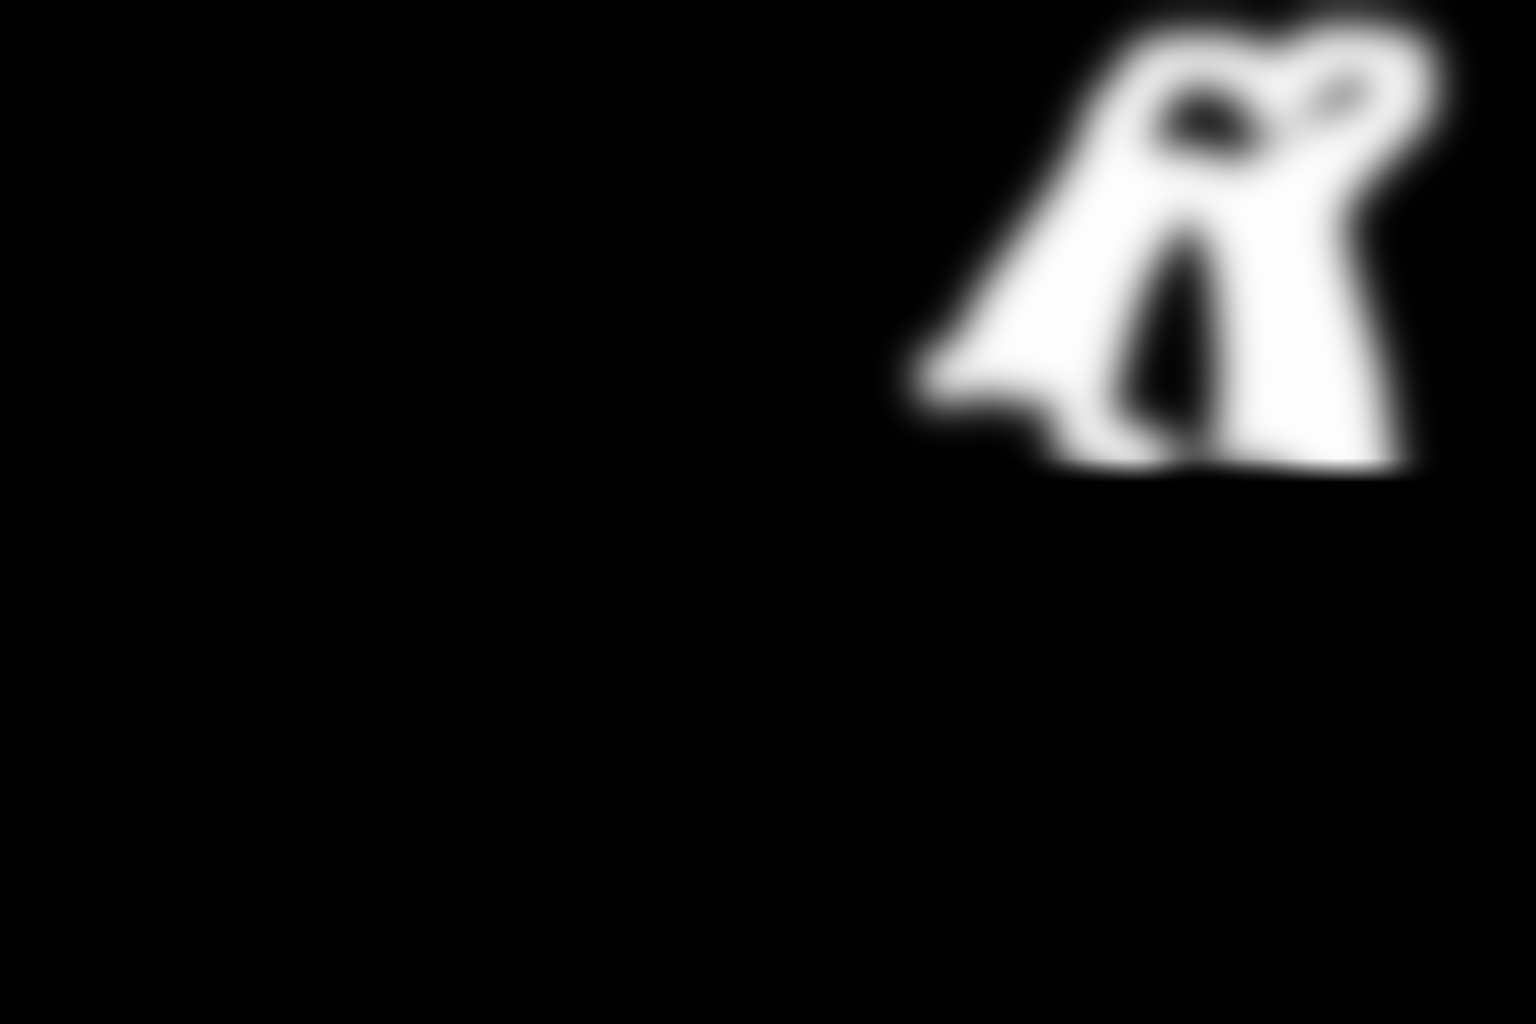
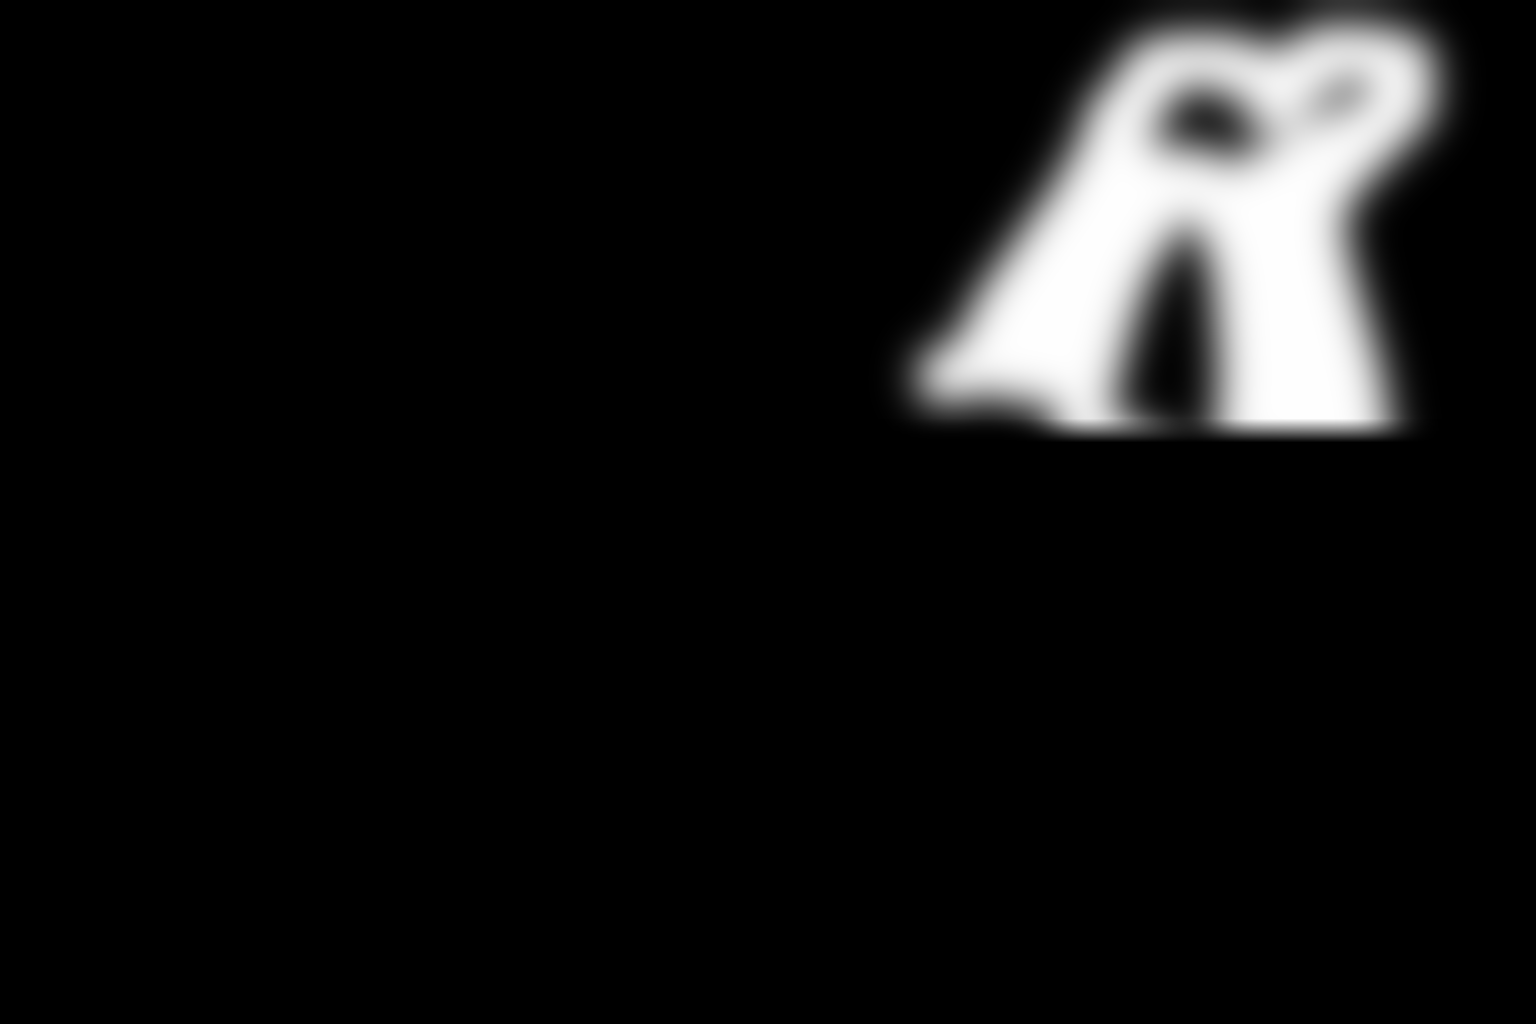
Give the rear its own region: the dress covers it, not a black band
A black band was drawn between the hem and the tights, reading as a camisole
under the one-piece. Nothing asked for it. The two regions owned the thigh and
the legs, the rear belonged to the base prompt, and the base prompt has a black
coat in it -- an unassigned region gets drawn from whatever is nearest.

So the rear becomes a third region asking for the dress. The hem has never
answered to length tags; it answers to being given a region.

Two lines now define the lower half: y=430 the sock top, y=620 the hem. Both are
mask edits, not prompt edits.

And a thin region needs more strength than a fat one: the tights band sits
between two larger pale neighbours and came back at 213,206,215 at parity,
against 134,131,134 when it owns more of the leg. WEIGHT gives it 1.8x.

Changed region(s): [[0.6562, 0.4062, 0.9375, 0.4688]]

diff --git a/scripts/yk_prone_legwear.py b/scripts/yk_prone_legwear.py
@@ -22,8 +22,9 @@ They do not have to share a *prompt*, though. They occupy different parts of the
 picture, and ComfyUI conditions parts of the picture separately:
 
     base    the whole prompt with the legwear block removed,
-            masked to everything OUTSIDE the two regions
-    tights  the same prompt plus grey pantyhose, masked over hip and thigh
+            masked to everything OUTSIDE the three regions
+    dress   the same prompt plus the purple dress, masked over the rear
+    tights  the same prompt plus grey pantyhose, a band on the upper thigh
     sock    the same prompt plus white thighhighs, masked from mid-thigh
             down the raised legs to the toes
 
@@ -47,10 +48,11 @@ any other seed:
 1. render the first pass and cut two regions from it by colour -- bare skin for
    the legwear, near-white for the raised legs;
 2. open, dilate by 41px and blur by 20 so they survive the picture moving;
-3. **split them across the thigh at y=470, with a 12px transition.** Everything
-   below that line is tights, everything above it is sock. That line is the sock
-   top, and it is the only thing in this file that decides ニーハイ from
-   ハイソックス -- the tags describe the garment, the mask places it.
+3. **cut them with two lines across the body, 12px of transition each.** At
+   y=430 the sock top: above it sock, below it legwear. At y=620 the hem:
+   below it dress, between the two lines tights. The tags describe the
+   garments, the lines place them, and the lines are what decide ニーハイ from
+   ハイソックス and how much rear the dress covers.
 
 They are specific to seed 1886970040. On any other seed they are wrong, and the
 honest way to get another one is to render it first and cut new masks from it.
@@ -68,13 +70,21 @@ from comfy_host import DEFAULT_HOST, DEFAULT_PORT, stage_input
 
 REPO = Path(__file__).resolve().parent.parent
 INPUT_DIR = REPO / ".local/ComfyUI/input"
-MASKS = {"tights": REPO / "assets/prone-tights-mask.png",
+MASKS = {"dress": REPO / "assets/prone-dress-mask.png",
+         "tights": REPO / "assets/prone-tights-mask.png",
          "sock": REPO / "assets/prone-sock-mask.png"}
 
 # The garment each region adds to the shared prompt. Weighted well above the
 # recipe's usual 1.45 because a region is arguing with nothing -- the base is
 # masked out of it -- and because the pale side of the palette wins ties here.
 REGION = {
+    # The rear is the DRESS's job. Left to the base prompt it came out as a
+    # black band between the hem and the tights, reading as a camisole or a
+    # pair of shorts worn under the one-piece -- 「お尻を隠すのはワンピースです」.
+    # The hem has never answered to length tags (see the module docstring in
+    # yukari_recipe.py); it answers to being given a region.
+    "dress": ("(purple dress:1.9), (dress:1.7), (dress hem:1.5), (frills:1.3), "
+              "(long dress:1.4)"),
     "tights": ("(grey pantyhose:1.9), (dark grey legwear:1.7), "
                "(charcoal pantyhose:1.5), (opaque pantyhose:1.5)"),
     # ニーハイ is `thighhighs`, over the knee. `kneehighs` is ハイソックス and
@@ -83,6 +93,13 @@ REGION = {
     "sock": ("(white thighhighs:1.8), (white over-kneehighs:1.6), "
              "(thighhighs:1.5)"),
 }
+
+# Per-region conditioning strength, multiplied by --strength. The tights band is
+# the thinnest region and sits between two much larger pale ones, so at parity
+# it comes back washed out -- 213,206,215 against the 134,131,134 the same
+# prompt lands when it owns more of the leg. The extra weight is buying back
+# what the neighbours take, not asking for a different colour.
+WEIGHT = {"dress": 1.0, "tights": 1.8, "sock": 1.0}
 
 
 def legwear_block() -> str:
@@ -120,7 +137,8 @@ def build(seed: int, prefix: str, hires: int, strength: float,
                                     "text": f"{base}, {REGION[name]}"}}
         graph[setmask] = {"class_type": "ConditioningSetMask",
                           "inputs": {"conditioning": [encode, 0],
-                                     "mask": [tomask, 0], "strength": strength,
+                                     "mask": [tomask, 0],
+                                     "strength": strength * WEIGHT[name],
                                      "set_cond_area": "default"}}
         graph[combine] = {"class_type": "ConditioningCombine",
                           "inputs": {"conditioning_1": combined,
@@ -129,15 +147,23 @@ def build(seed: int, prefix: str, hires: int, strength: float,
         mask_refs.append([tomask, 0])
         node += 5
 
-    # The base, masked to what the regions do not cover.
-    graph["40"] = {"class_type": "MaskComposite",
-                   "inputs": {"destination": mask_refs[0], "source": mask_refs[1],
-                              "x": 0, "y": 0, "operation": "add"}}
-    graph["41"] = {"class_type": "InvertMask", "inputs": {"mask": ["40", 0]}}
-    graph["42"] = {"class_type": "ConditioningSetMask",
-                   "inputs": {"conditioning": ["6", 0], "mask": ["41", 0],
-                              "strength": 1.0, "set_cond_area": "default"}}
-    graph["24"]["inputs"]["conditioning_1"] = ["42", 0]
+    # The base, masked to what the regions do not cover. Any number of regions:
+    # the masks are added together one at a time and the sum is inverted.
+    union = mask_refs[0]
+    node = 40
+    for ref in mask_refs[1:]:
+        graph[str(node)] = {"class_type": "MaskComposite",
+                            "inputs": {"destination": union, "source": ref,
+                                       "x": 0, "y": 0, "operation": "add"}}
+        union = [str(node), 0]
+        node += 1
+    graph[str(node)] = {"class_type": "InvertMask", "inputs": {"mask": union}}
+    graph[str(node + 1)] = {"class_type": "ConditioningSetMask",
+                            "inputs": {"conditioning": ["6", 0],
+                                       "mask": [str(node), 0], "strength": 1.0,
+                                       "set_cond_area": "default"}}
+    # The first Combine took the unmasked base; hand it the masked one instead.
+    graph["24"]["inputs"]["conditioning_1"] = [str(node + 1), 0]
 
     # Both passes sample against the same regional conditioning; the second one
     # would otherwise redraw the legs from the legwear-less base and undo it.

diff --git a/docs/render-notes.md b/docs/render-notes.md
@@ -4127,3 +4127,40 @@ Open, and inherited: the thin white line across the backdrop beside the knee is
 still there, and no welt band is drawn at the sock top -- the boundary is a
 colour change, not a hem. `zettai ryouiki` is not available to ask for it, since
 that names bare thigh above the sock and there is none.
+
+### The rear is the dress's job, and a third region is what gives it back (2026-08-17)
+
+「ワンピースの下に黒いキャミソール着てる？それはちがう。お尻を隠すのはワンピースです」.
+
+Between the purple hem and the grey there was a black band hugging the hip,
+reading as a camisole or a pair of shorts under the one-piece. Nothing asked for
+it: the two regions owned the thigh and the legs, the rear belonged to the base
+prompt, and the base prompt has a black coat in it. **An unassigned region gets
+drawn from whatever is nearest in the prompt.**
+
+The hem has never answered to length tags -- that is in the module docstring,
+measured over three renders back in the first session. It answers to being given
+a region. A third mask over the rear, prompted `(purple dress:1.9), (dress:1.7),
+(dress hem:1.5), (frills:1.3), (long dress:1.4)`, and the dress covers the
+buttocks with its own frilled edge. The black band is gone because there is no
+longer anywhere for the coat to reach.
+
+Two lines across the body now define the whole lower half, and they are the
+tunable part:
+
+    y=430   the sock top      above it sock, below it legwear
+    y=620   the hem           below it dress, between the lines tights
+
+**A thin region needs more strength than a fat one.** The tights band is the
+narrowest of the three and sits between two much larger pale neighbours; at
+parity it came back at 213,206,215 -- washed out -- against the 134,131,134 the
+same prompt lands when it owns more of the leg. `WEIGHT` gives it 1.8x. That is
+buying back what the neighbours take, not asking for a different colour.
+
+Kept: `ykprone-dr2k-prone-1886970040`, 2048x1368, stroke 1.225 per 1000px.
+Dress over the rear, a band of grey tights below the hem, white thigh-highs from
+mid-thigh to the toes.
+
+Open: the tights band is subtle at print size -- pale grey between a purple hem
+and a white sock, and the eye can read it as shadow. Widening it means moving
+one of the two lines, which is a mask edit and not a prompt edit.
